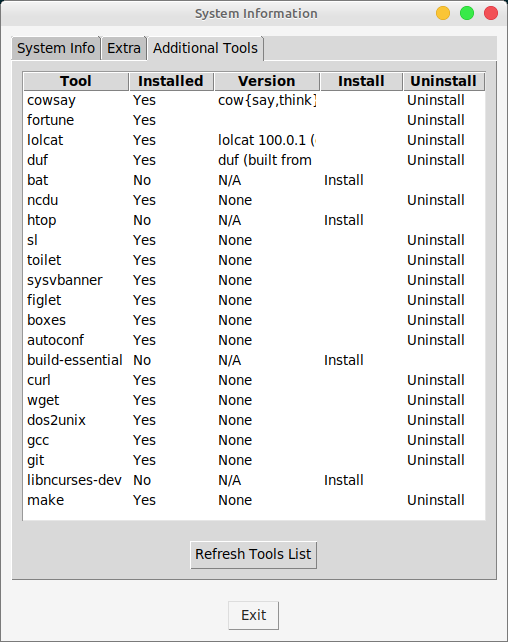
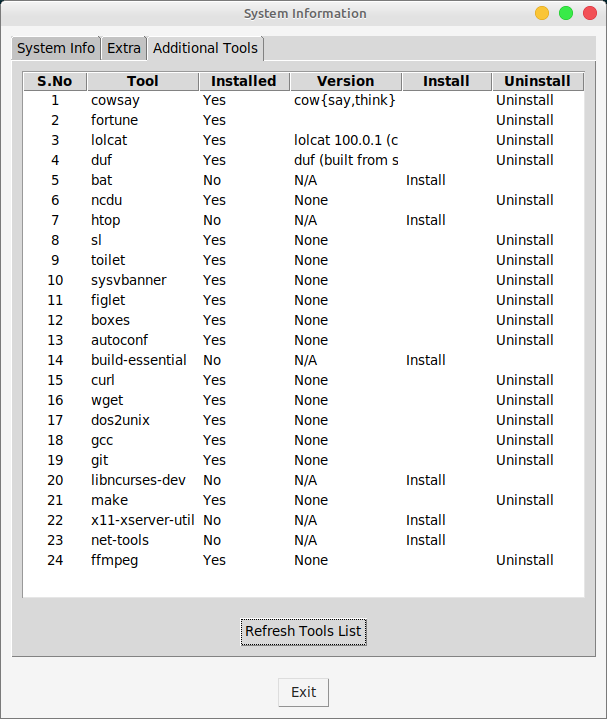
improved app

diff --git a/better-linux.py b/better-linux.py
@@ -36,13 +36,17 @@ class SystemInfoGUI:
         self.extra_label.destroy()
 
         # Create a Treeview widget for tools table
-        self.tools_table = ttk.Treeview(self.extra_frame, columns=('Tool', 'Version'), show='headings')
+        self.tools_table = ttk.Treeview(self.extra_frame, columns=('SNo', 'Tool', 'Version'), show='headings')
+        self.tools_table.heading('SNo', text='S.No')
         self.tools_table.heading('Tool', text='Tool')
         self.tools_table.heading('Version', text='Version')
+        
+        # Configure column widths
+        self.tools_table.column('SNo', width=50, anchor='center')
+        self.tools_table.column('Tool', width=150)
+        self.tools_table.column('Version', width=250)
+        
         self.tools_table.pack(padx=10, pady=10, expand=True, fill='both')
-
-        # Populate tools table
-        self.populate_tools_table()
 
         # Create third tab labeled "Additional Tools"
         self.additional_tools_frame = ttk.Frame(self.notebook)
@@ -50,8 +54,9 @@ class SystemInfoGUI:
 
         # Create a Treeview widget for additional tools table
         self.additional_tools_table = ttk.Treeview(self.additional_tools_frame, 
-                                                   columns=('Tool', 'Installed', 'Version', 'Install', 'Uninstall'), 
+                                                   columns=('SNo', 'Tool', 'Installed', 'Version', 'Install', 'Uninstall'), 
                                                    show='headings')
+        self.additional_tools_table.heading('SNo', text='S.No')
         self.additional_tools_table.heading('Tool', text='Tool')
         self.additional_tools_table.heading('Installed', text='Installed')
         self.additional_tools_table.heading('Version', text='Version')
@@ -59,6 +64,7 @@ class SystemInfoGUI:
         self.additional_tools_table.heading('Uninstall', text='Uninstall')
         
         # Configure column widths
+        self.additional_tools_table.column('SNo', width=50, anchor='center')
         self.additional_tools_table.column('Tool', width=100)
         self.additional_tools_table.column('Installed', width=80)
         self.additional_tools_table.column('Version', width=100)
@@ -78,6 +84,9 @@ class SystemInfoGUI:
             command=self.refresh_additional_tools
         )
         self.refresh_button.pack(side=tk.LEFT, padx=5)
+
+        # Populate tools table
+        self.populate_tools_table()
 
         # Populate additional tools table
         self.populate_additional_tools_table()
@@ -155,9 +164,9 @@ class SystemInfoGUI:
                 return 'N/A'
 
         # Populate the table
-        for tool in tools_to_check:
+        for index, tool in enumerate(tools_to_check, 1):
             version = get_tool_version(tool)
-            self.tools_table.insert('', 'end', values=(tool, version))
+            self.tools_table.insert('', 'end', values=(index, tool, version))
 
     def populate_additional_tools_table(self):
         # List of additional tools to check
@@ -212,12 +221,13 @@ class SystemInfoGUI:
                 return 'N/A'
 
         # Populate the table
-        for tool in additional_tools:
+        for index, tool in enumerate(additional_tools, 1):
             installed = is_tool_installed(tool)
             version = get_tool_version(tool) if installed == 'Yes' else 'N/A'
             
             # Insert row with install/uninstall buttons
             item = self.additional_tools_table.insert('', 'end', values=(
+                index,
                 tool, 
                 installed, 
                 version, 
@@ -260,10 +270,10 @@ class SystemInfoGUI:
         x, y, width, height = self.additional_tools_table.bbox(item, column)
         
         # Position and show the appropriate button
-        if column == '#4':  # Install column
+        if column == '#5':  # Install column
             install_button.place(x=x, y=y, width=width, height=height)
             uninstall_button.place_forget()
-        elif column == '#5':  # Uninstall column
+        elif column == '#6':  # Uninstall column
             uninstall_button.place(x=x, y=y, width=width, height=height)
             install_button.place_forget()
         else:

diff --git a/README.md b/README.md
@@ -6,8 +6,20 @@
 
 ### Features
 - System information - OS, CPU, Memory, Disk
-- Extra Tools  - 
-- Additional tools
+- Extra Tools  - Listing of available tools - cowsay, fortune, lolcat, duf, bat, ncdu, htop, sl, toilet, sysvbanner, figlet, boxes
+- Additional tools - Installation of available tools.  User can install or uninstall tools. This includes cowsay, fortune, lolcat, duf, bat, ncdu, htop, sl, toilet, sysvbanner, figlet, boxes
+
+
+### Pre-requisites
+- Python 3.6 or higher
+- pip installed
+
+### Installation
+- `pip install -r requirements.txt`
+
+
+### Usage
+- Run the application : `python3 better-linux.py`
 
 
 
@@ -25,11 +37,3 @@
 
 ![Additional Tools](screenshots/additional-tools.png)
 
-> **Note**: Screenshots are not yet available. To generate screenshots:
-> 1. Run the application
-> 2. Take screenshots of each tab
-> 3. Save them in a `screenshots` directory with the following names:
->    - `system_info.png`
->    - `tools_version.png`
->    - `additional_tools.png`
-{{ ... }}
